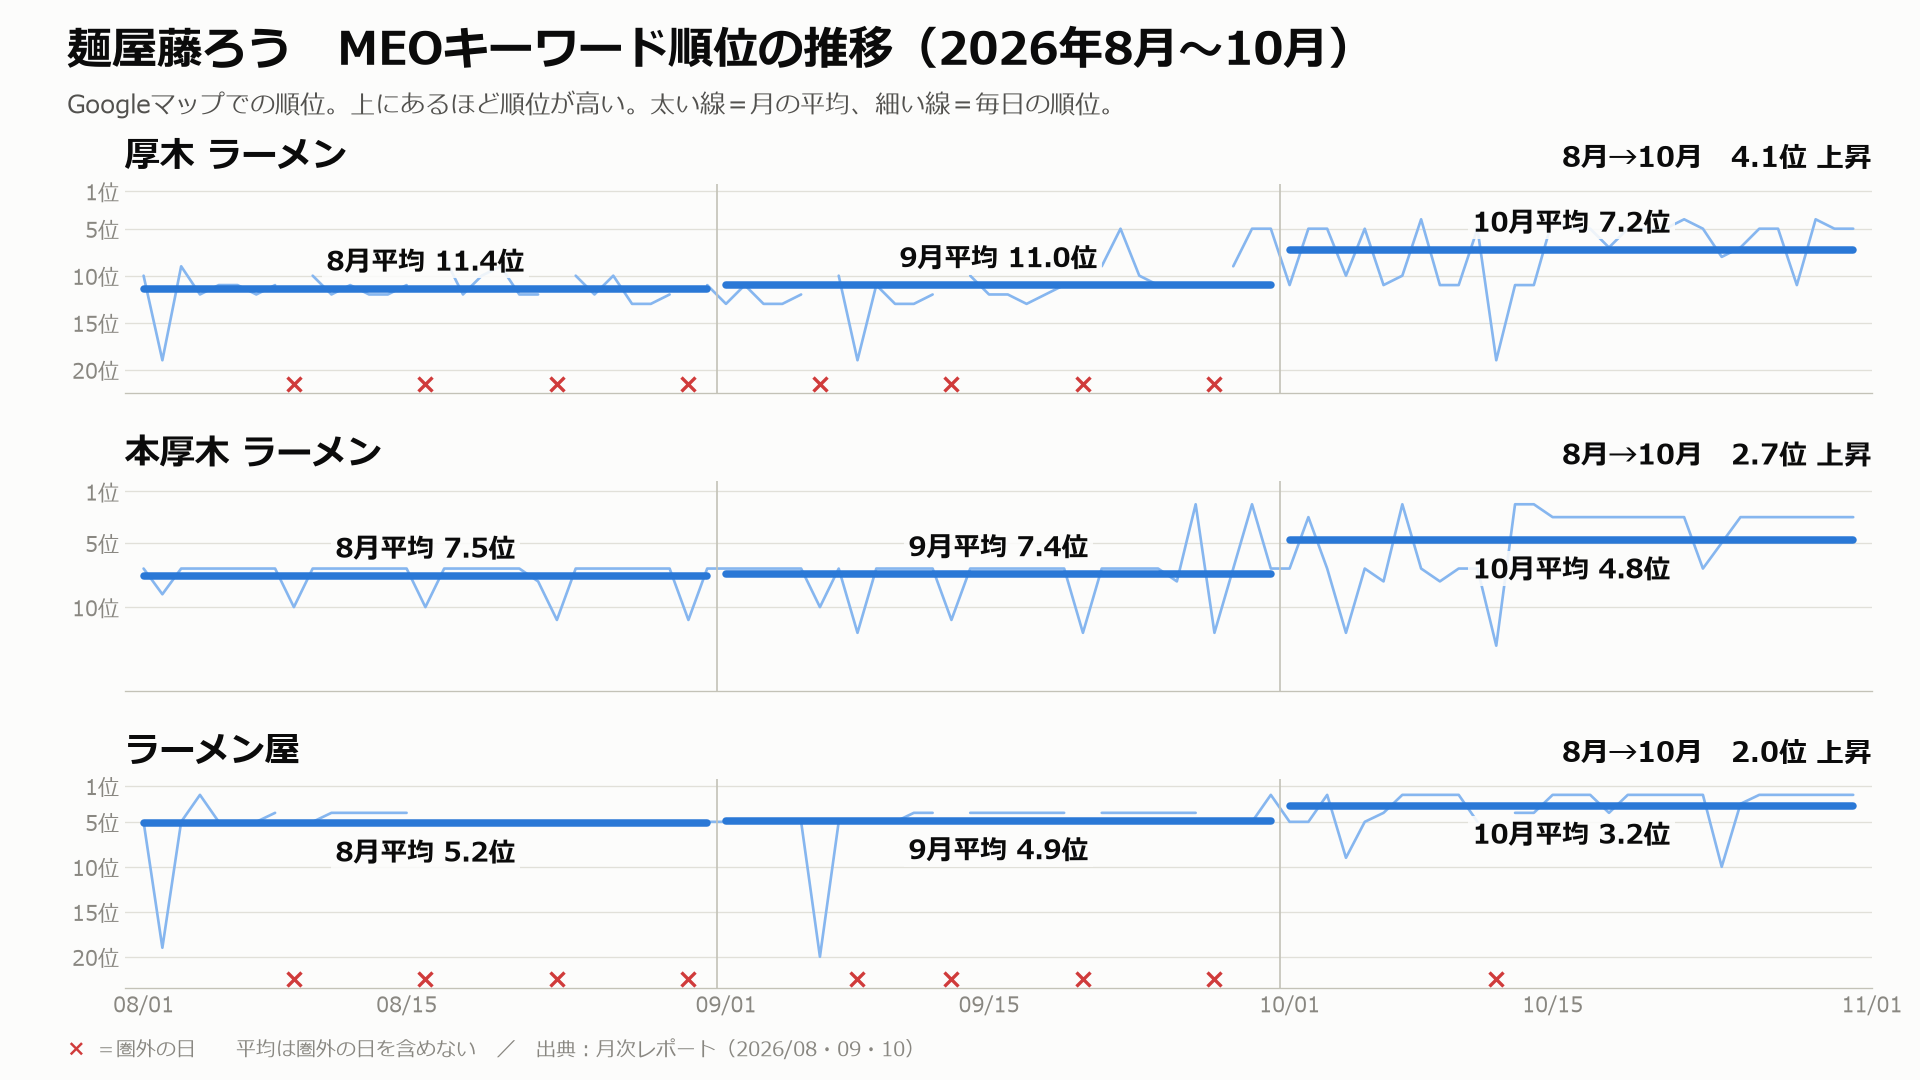
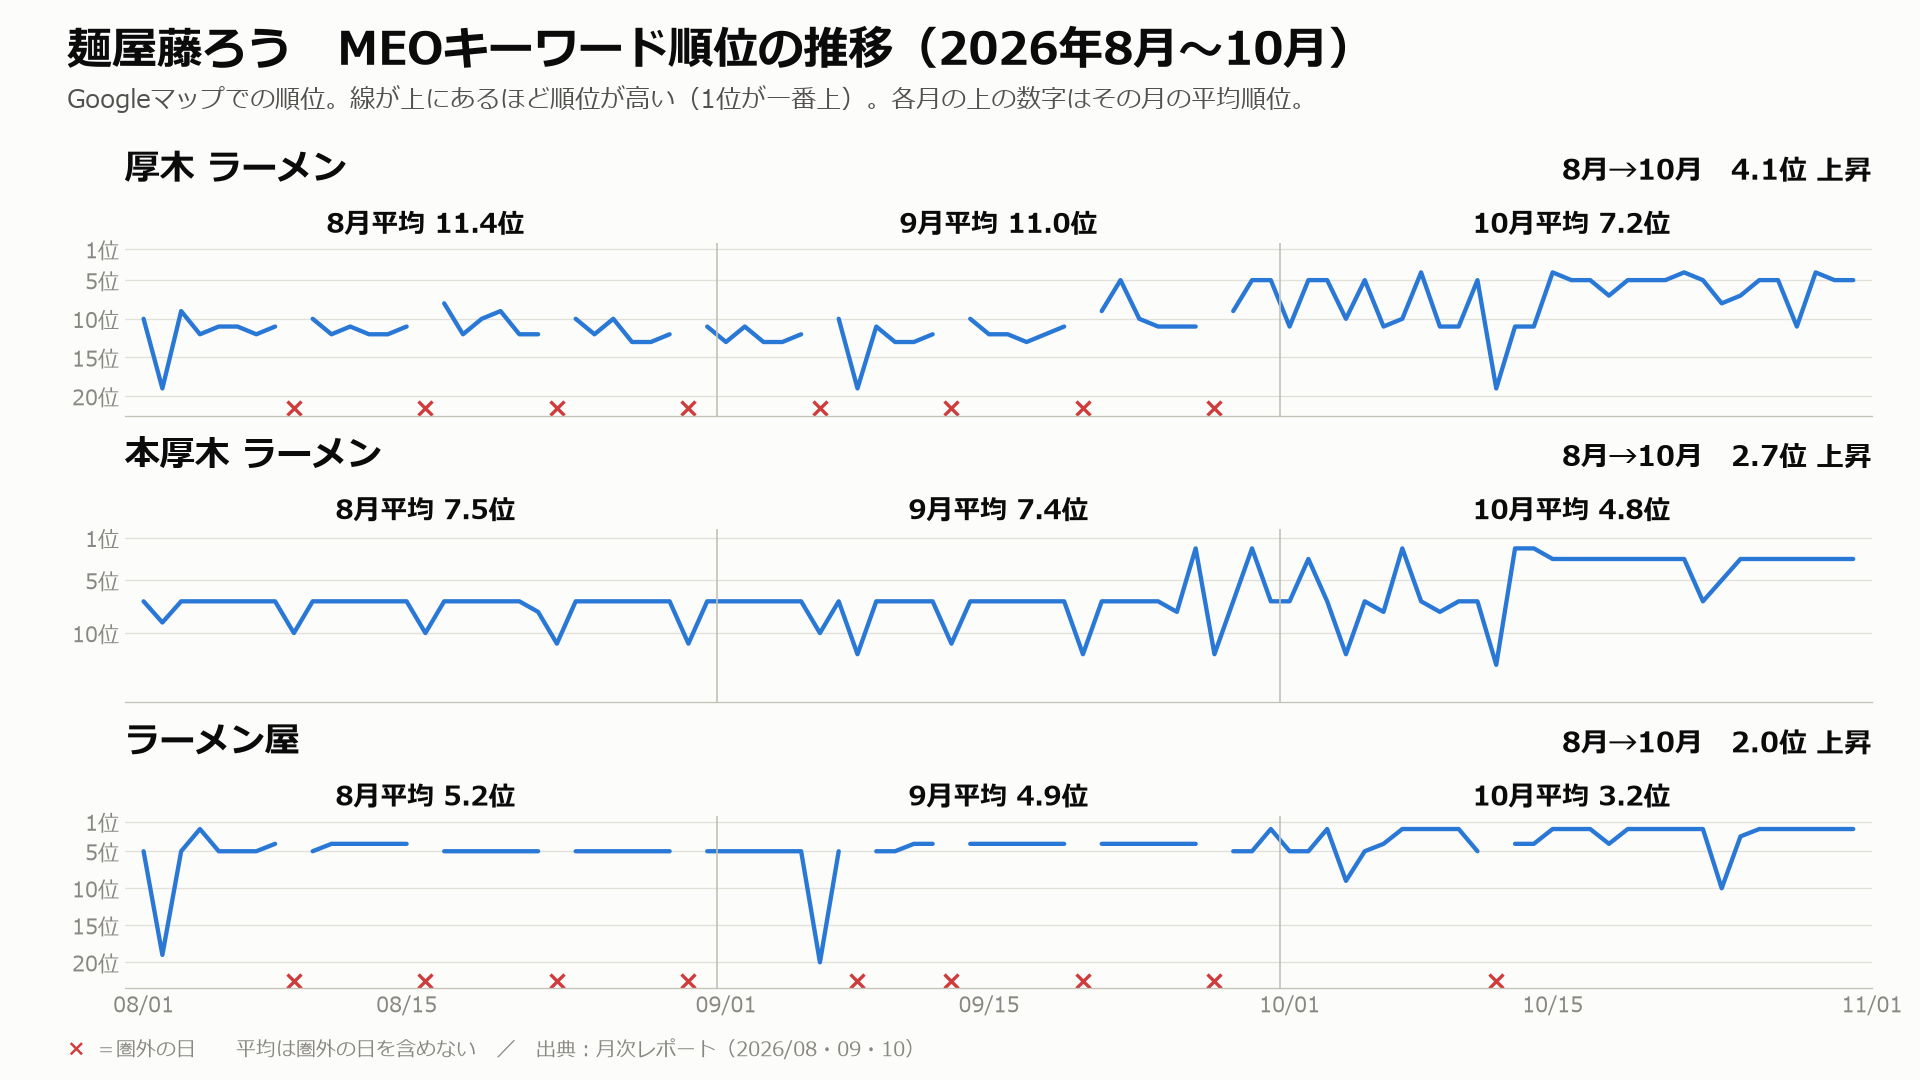
グラフの太い横棒をやめ、月平均の数字をグラフの外へ移動

diff --git a/index.html b/index.html
@@ -12,9 +12,9 @@ html,body{margin:0;height:100%;background:#222;font-family:sans-serif;overflow:h
 <div class="s on"><img src="img/1.jpg" alt="キーワードによる順位計測 9/1〜9/15"></div>
 <div class="s"><img src="img/2.jpg" alt="キーワードによる順位計測 9/16〜9/30"></div>
 <div class="s"><img src="img/3.jpg" alt="女子会の月別出現回数"></div>
-<div class="s"><img src="img/kaishin_graph.png?v=2" alt="麺屋海心 MEOキーワード順位の推移 2026年8月〜10月"></div>
+<div class="s"><img src="img/kaishin_graph.png?v=3" alt="麺屋海心 MEOキーワード順位の推移 2026年8月〜10月"></div>
 <div class="s"><img class="t" src="img/kaishin_table.png?v=2" alt="麺屋海心 月ごとの平均順位の表"></div>
-<div class="s"><img src="img/fujirou_graph.png?v=2" alt="麺屋藤ろう MEOキーワード順位の推移 2026年8月〜10月"></div>
+<div class="s"><img src="img/fujirou_graph.png?v=3" alt="麺屋藤ろう MEOキーワード順位の推移 2026年8月〜10月"></div>
 <div class="s"><img class="t" src="img/fujirou_table.png?v=2" alt="麺屋藤ろう 月ごとの平均順位の表"></div>
 <button class="b" id="p">&#8249;</button><button class="b" id="n">&#8250;</button><div id="c"></div>
 <script>
